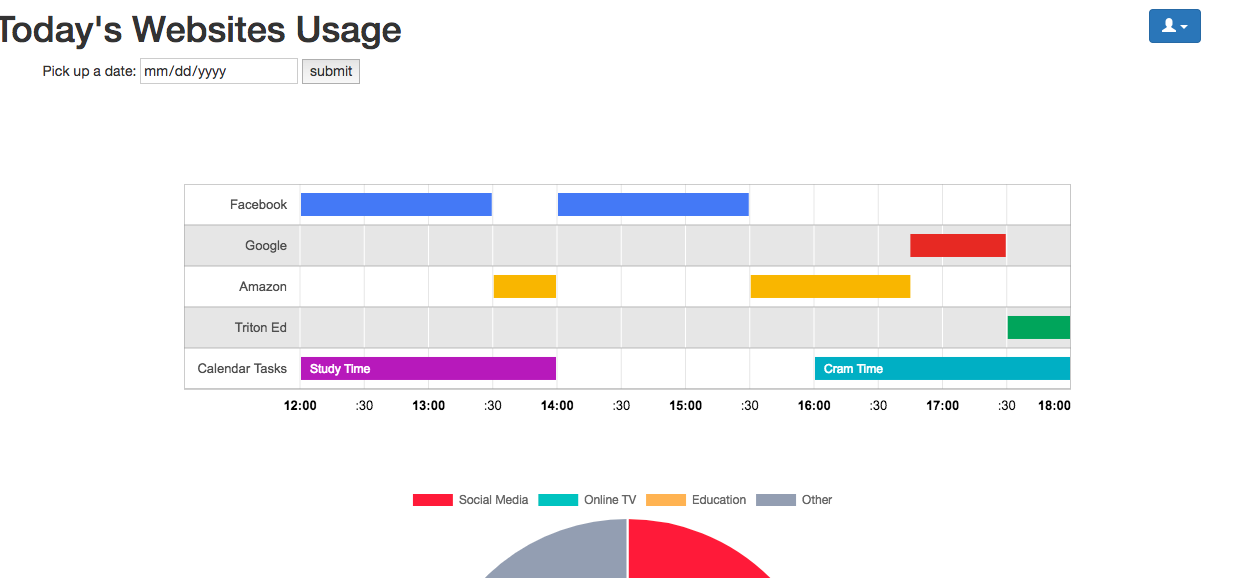
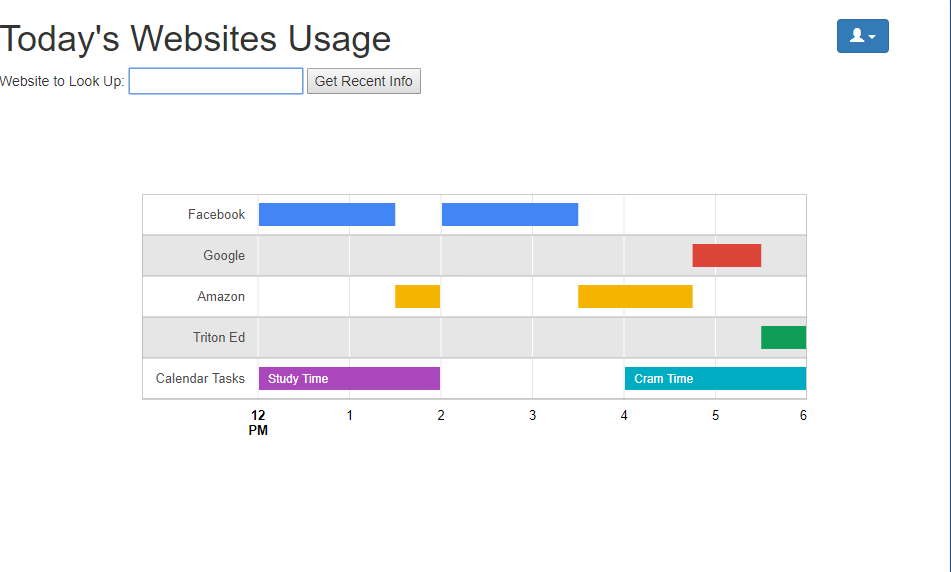
temp fix for table query -> url query, udpated screenshots

diff --git a/milestone4.md b/milestone4.md
@@ -1,6 +1,6 @@
 Milestone 4
 
-While in the mileston3, we were only able to display the chart of a static data, now, we can display the data depending on the user’s selection of date. Moreover, we added a graph of showing the timeline of user's web usage to visually indicate if users got distrupted during the "study time" or not.
+While in the mileston3, we were only able to display the chart of a static data, now, we can display the data depending on the user’s selection query of a specific website url giving the recent usage of that website given the website is within the database for that date. Moreover, we added a graph of showing the timeline of user's web usage to visually indicate if users got distrupted during the "study time" or not which will be tied to the data in further iterations. 
 <img src="milestone4Pictures/home1.png" width="60%">
 <img src="milestone4Pictures/home2.png" width="60%">
 
